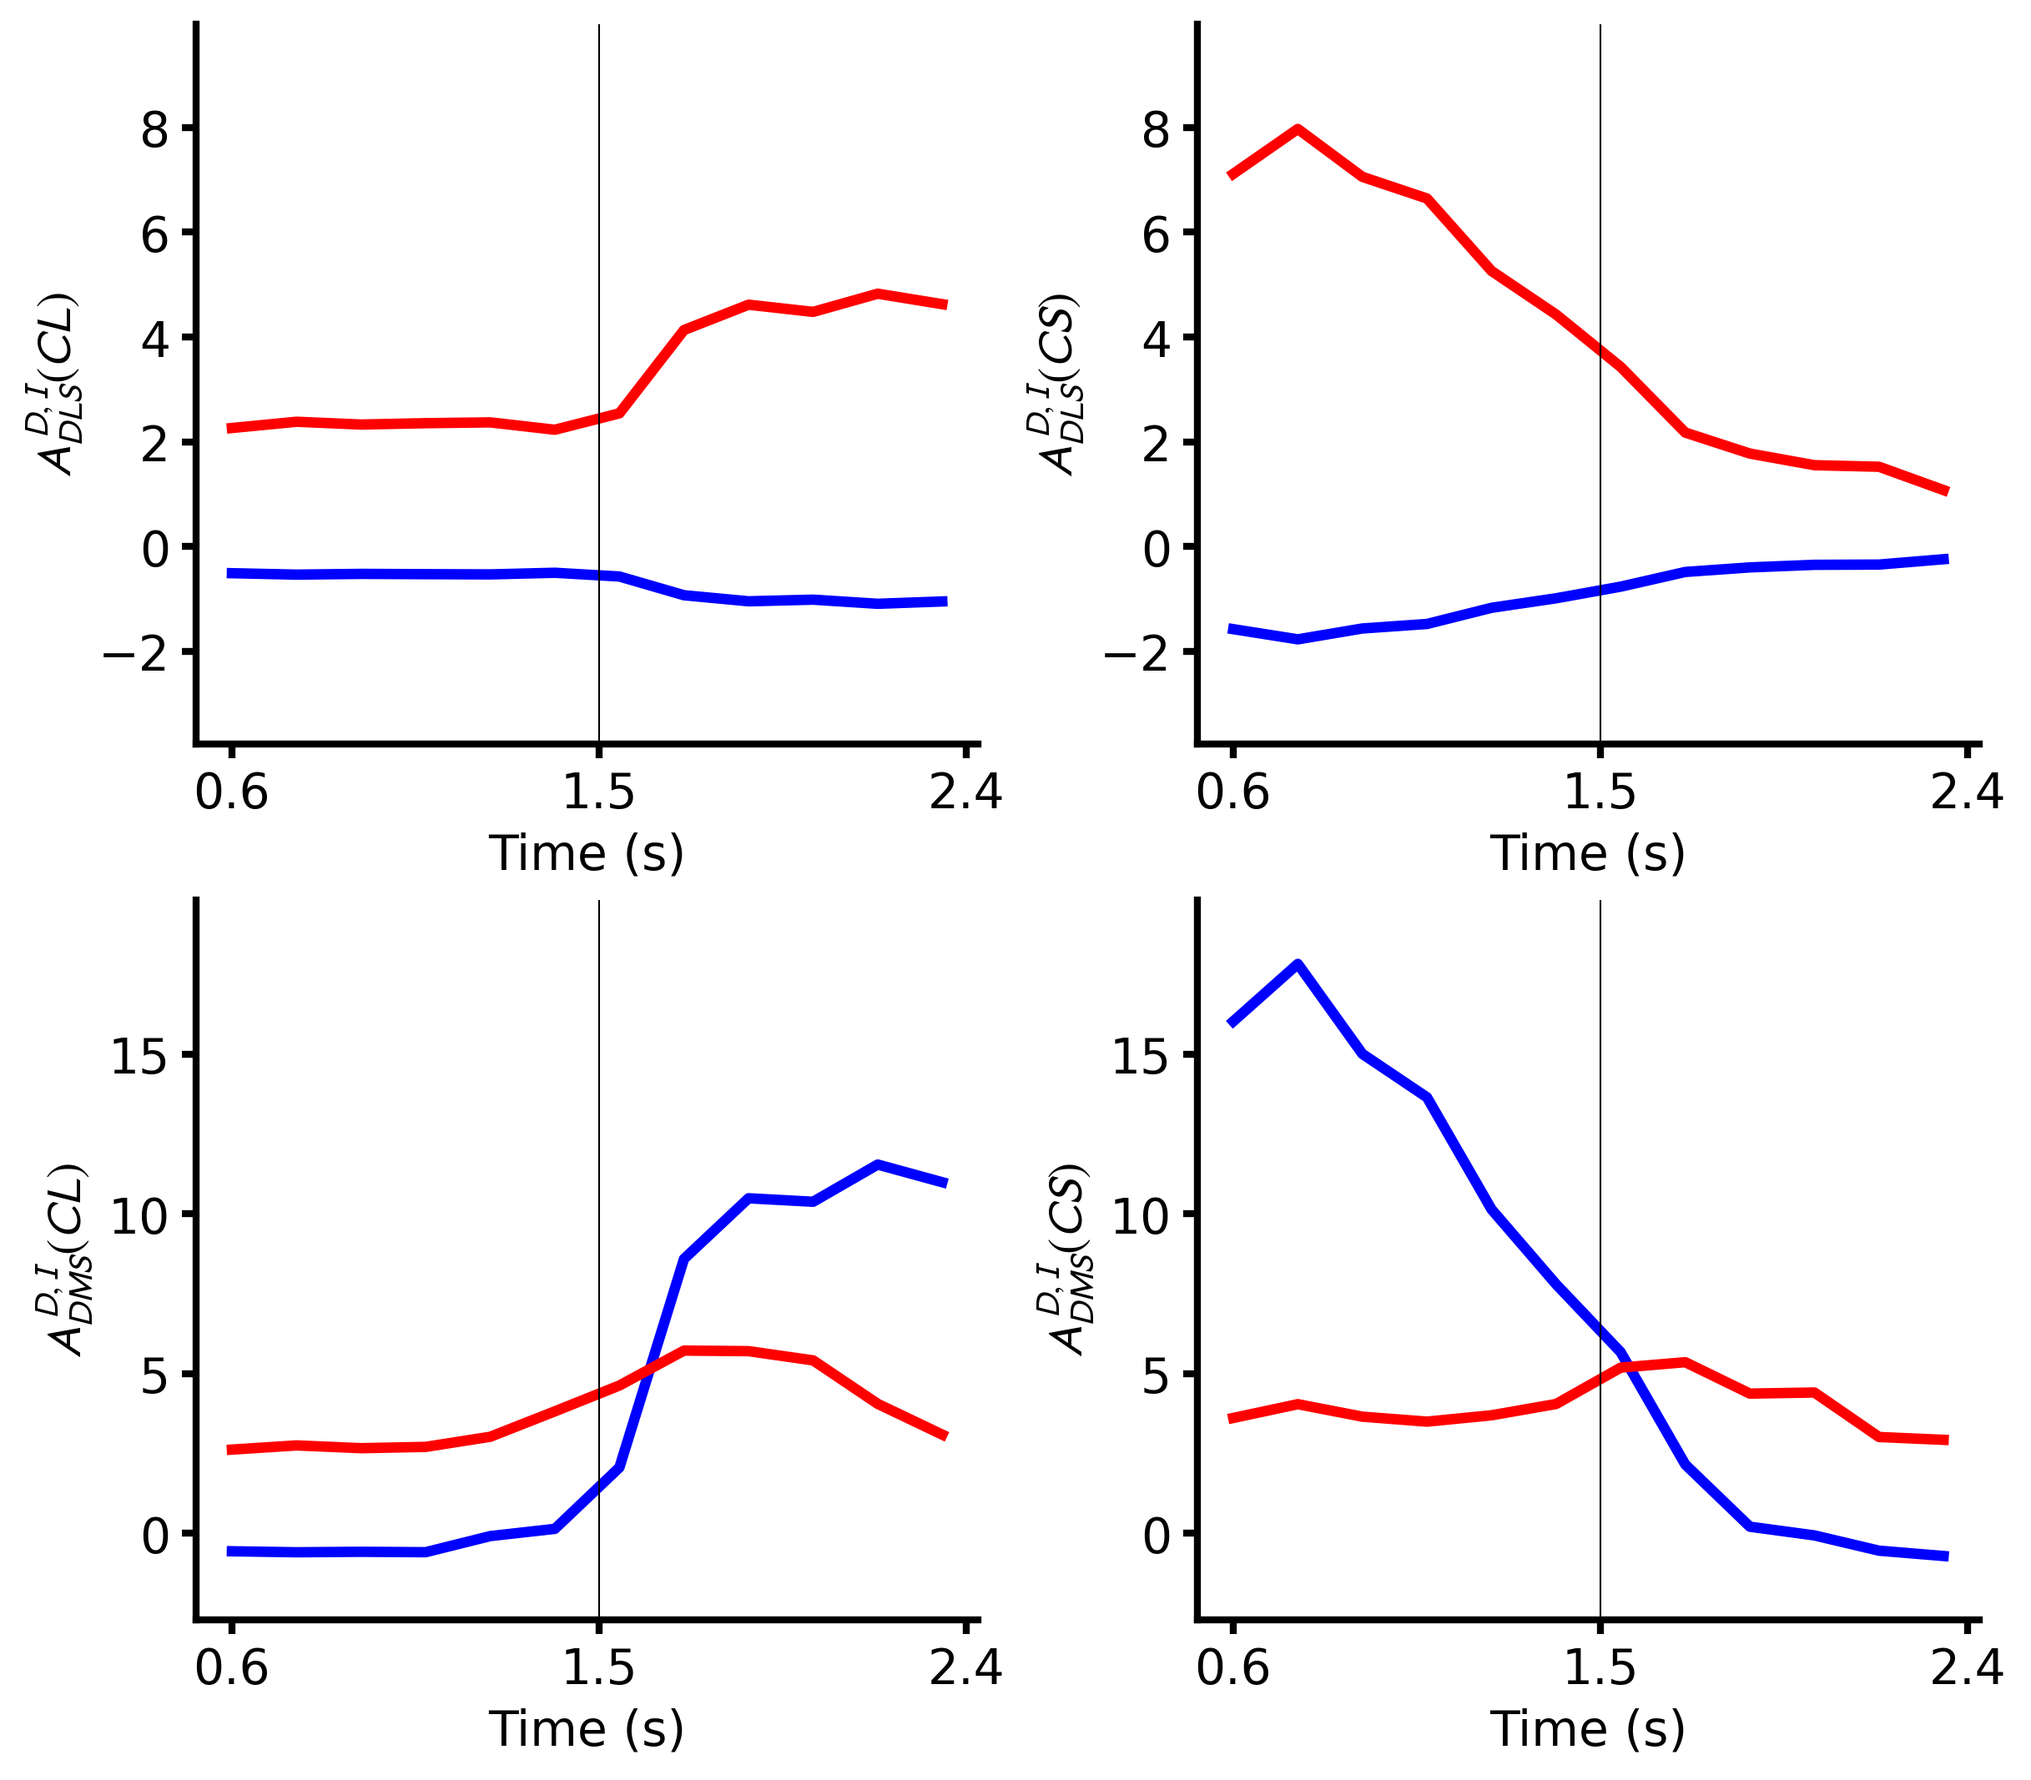
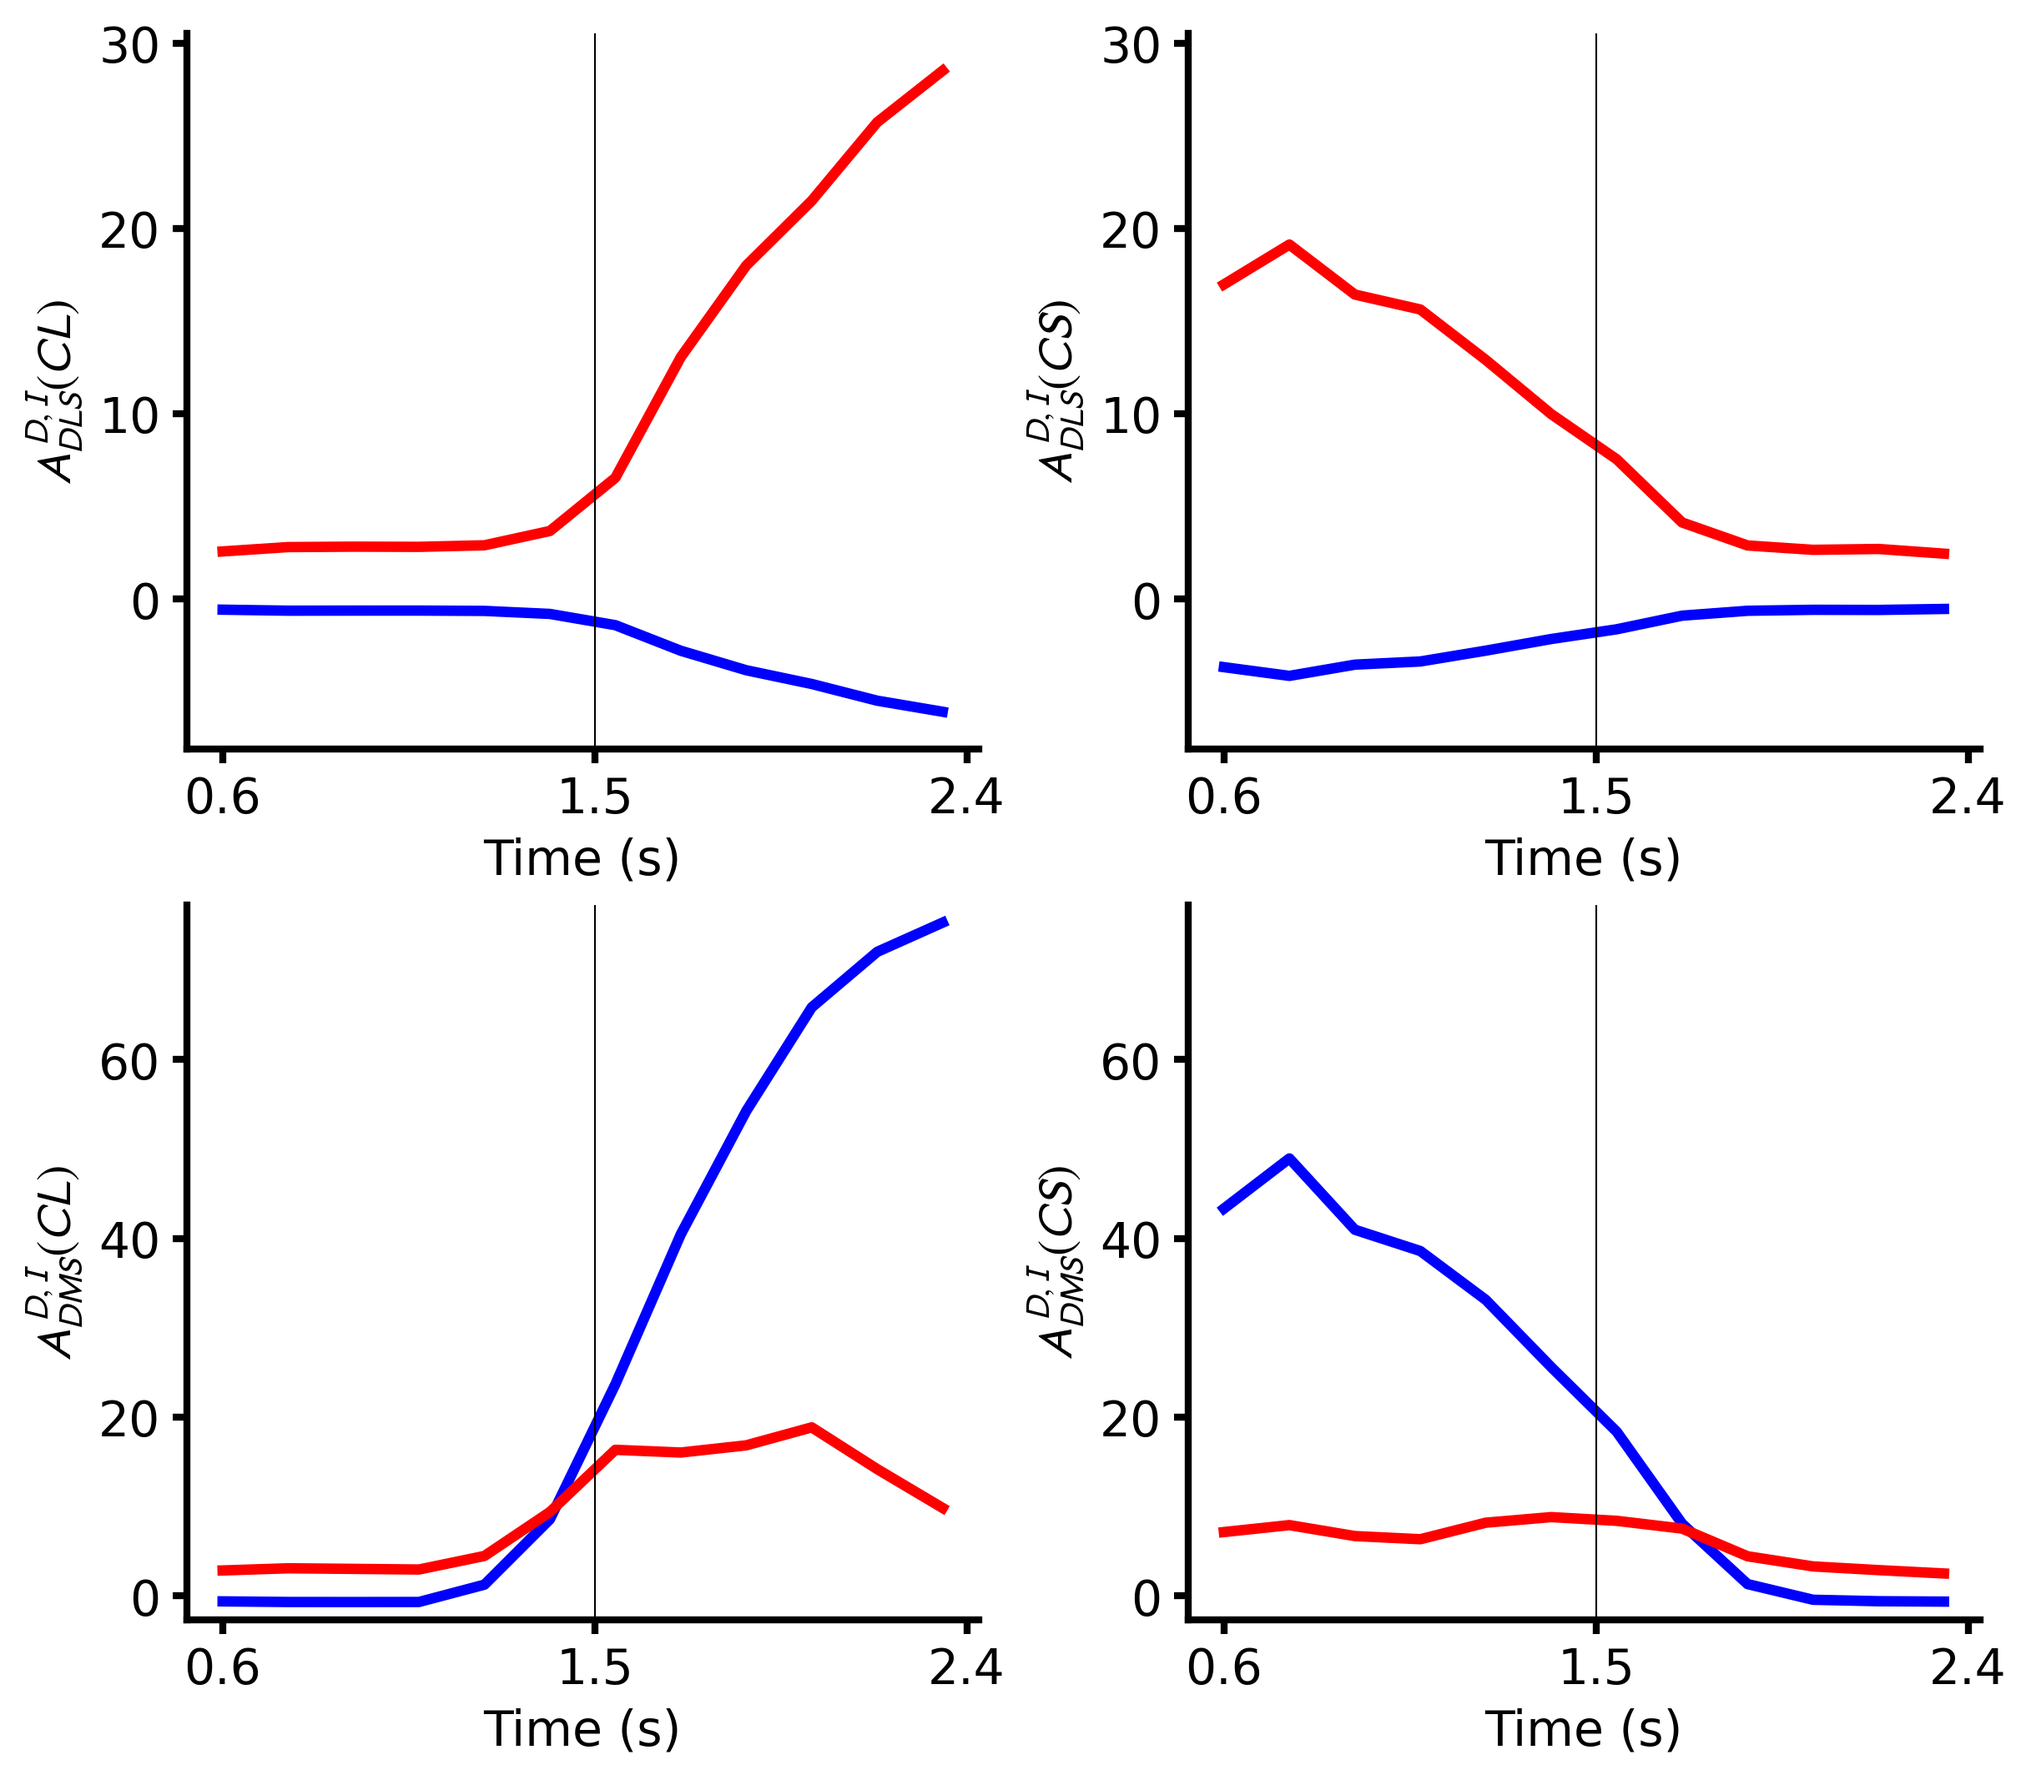
plots

diff --git a/train_250k.py b/train_250k.py
@@ -1,6 +1,6 @@
 """
-Training module for pathway agents.
-Handles the training process and can be called independently.
+Training script for 250,000 episodes.
+Modified version of training.py to run extended training.
 """
 
 import numpy as np
@@ -20,7 +20,10 @@ import datetime
 from IPython.display import clear_output, display
 from numpy import linalg as LA
 
-from tqdm import tqdm
+try:
+    from tqdm.notebook import tqdm
+except ImportError:
+    from tqdm import tqdm
 
 from matplotlib import rc
 
@@ -38,14 +41,14 @@ plt.rcParams['xtick.major.width'] = 2
 plt.rcParams['ytick.major.size'] = 4
 plt.rcParams['ytick.major.width'] = 2
 
-def setup_training_parameters():
+def setup_training_parameters_250k():
     """
-    Set up training parameters for the pathway agents.
+    Set up training parameters for 250,000 episodes.
     
     Returns:
         dict: Training parameters
     """
-    # Training episodes
+    # Training episodes - MODIFIED FOR 250K
     n_eps = 250000
     n_test_eps = int(n_eps * 0.7)
 
@@ -75,7 +78,7 @@ def setup_training_parameters():
     dp_dms_param = [11.5, 1, 0.9, 1, -3.5, 0]
     ip_dms_param = [11.5, 1, 0.9, 1, -3.5, 0]
 
-    train_sim_notes = "Training with split DMS and symmetric transfer functions"
+    train_sim_notes = "Training with 250,000 episodes - split DMS and symmetric transfer functions"
 
     param = {
         'n_states': 40, 
@@ -98,28 +101,16 @@ def setup_training_parameters():
     
     return param
 
-def train_agent(param=None, force_retrain=False):
+def train_agent_250k():
     """
-    Train the pathway agent.
+    Train the pathway agent for 250,000 episodes.
     
-    Args:
-        param: Training parameters (if None, uses default)
-        force_retrain: If True, forces retraining even if saved data exists
-        
     Returns:
         tuple: (sim_data, tf_m, param)
     """
-    if param is None:
-        param = setup_training_parameters()
+    param = setup_training_parameters_250k()
     
-    # Check if training data already exists
-    if not force_retrain and check_data_exists("training_data"):
-        print("Loading existing training data...")
-        saved_data = load_sim_data("training_data")
-        if saved_data is not None:
-            return saved_data['sim_data'], saved_data['tf_m'], saved_data['param']
-    
-    print("Starting training...")
+    print(f"Starting training for {param['n_episodes']} episodes...")
     
     # Initialize agent
     tf_m = pathway_agents_v11(param)
@@ -152,7 +143,8 @@ def train_agent(param=None, force_retrain=False):
     # Plot transfer function
     tf_fig2 = tf_m.plot_transfer_function([5, 3])
 
-    # Train the agent
+    # Train the agent with force retrain
+    print("Training in progress...")
     sim_data = tf_m.train_agent()
     
     # Save training data
@@ -161,13 +153,14 @@ def train_agent(param=None, force_retrain=False):
         'tf_m': tf_m,
         'param': param
     }
-    save_sim_data(training_data, "training_data")
+    save_sim_data(training_data, "training_data_250k")
     
+    print("Training completed and data saved!")
     return sim_data, tf_m, param
 
-def plot_training_results(sim_data, param, tf_m, save_plots=True):
+def plot_training_results_250k(sim_data, param, tf_m, save_plots=True):
     """
-    Plot training results.
+    Plot training results for 250k training.
     
     Args:
         sim_data: Simulation data from training
@@ -191,9 +184,9 @@ def plot_training_results(sim_data, param, tf_m, save_plots=True):
     
     return f1
 
-def plot_neural_activity(sim_data, tf_m, save_plots=True):
+def plot_neural_activity_250k(sim_data, tf_m, save_plots=True):
     """
-    Plot neural activity during training.
+    Plot neural activity during 250k training.
     
     Args:
         sim_data: Simulation data from training
@@ -216,15 +209,23 @@ def plot_neural_activity(sim_data, tf_m, save_plots=True):
     return f2
 
 if __name__ == "__main__":
-    # Run training if script is executed directly
-    print("Running training pipeline...")
+    # Run 250k training
+    print("="*60)
+    print("TRAINING PATHWAY AGENT FOR 250,000 EPISODES")
+    print("="*60)
     
     # Train agent
-    sim_data, tf_m, param = train_agent()
+    sim_data, tf_m, param = train_agent_250k()
     
     # Plot results
-    f1 = plot_training_results(sim_data, param, tf_m)
-    f2 = plot_neural_activity(sim_data, tf_m)
+    print("\nGenerating plots...")
+    f1 = plot_training_results_250k(sim_data, param, tf_m)
+    f2 = plot_neural_activity_250k(sim_data, tf_m)
     
     plt.show()
-    print("Training completed successfully!")
+    print("\n" + "="*60)
+    print("250K TRAINING COMPLETED SUCCESSFULLY!")
+    print("Plots saved to:")
+    print("- plots/training_results.png")
+    print("- plots/neural_activity.png")
+    print("="*60)

diff --git a/main.py b/main.py
@@ -20,10 +20,7 @@ import datetime
 from IPython.display import clear_output, display
 from numpy import linalg as LA
 
-try:
-    from tqdm.notebook import tqdm
-except ImportError:
-    from tqdm import tqdm
+from tqdm import tqdm
 
 from matplotlib import rc
 

diff --git a/agents/pathway_agents.py b/agents/pathway_agents.py
@@ -7,11 +7,7 @@ import sys
 import os
 import math
 import pandas as pd
-# Import tqdm with Jupyter notebook support
-try:
-    from tqdm.notebook import tqdm
-except ImportError:
-    from tqdm import tqdm
+from tqdm import tqdm
 
 import time
 

diff --git a/README.md b/README.md
@@ -167,3 +167,11 @@ run_control_test(sim_data, tf_m, param, force_retest=True)
 # Force rerun optogenetics
 run_dls_perturbation_experiments(..., force_rerun=True)
 ```
+
+## Results
+
+### Training Results
+![Training Results](plots/training_results.png)
+
+### Neural Activity
+![Neural Activity](plots/neural_activity.png)
